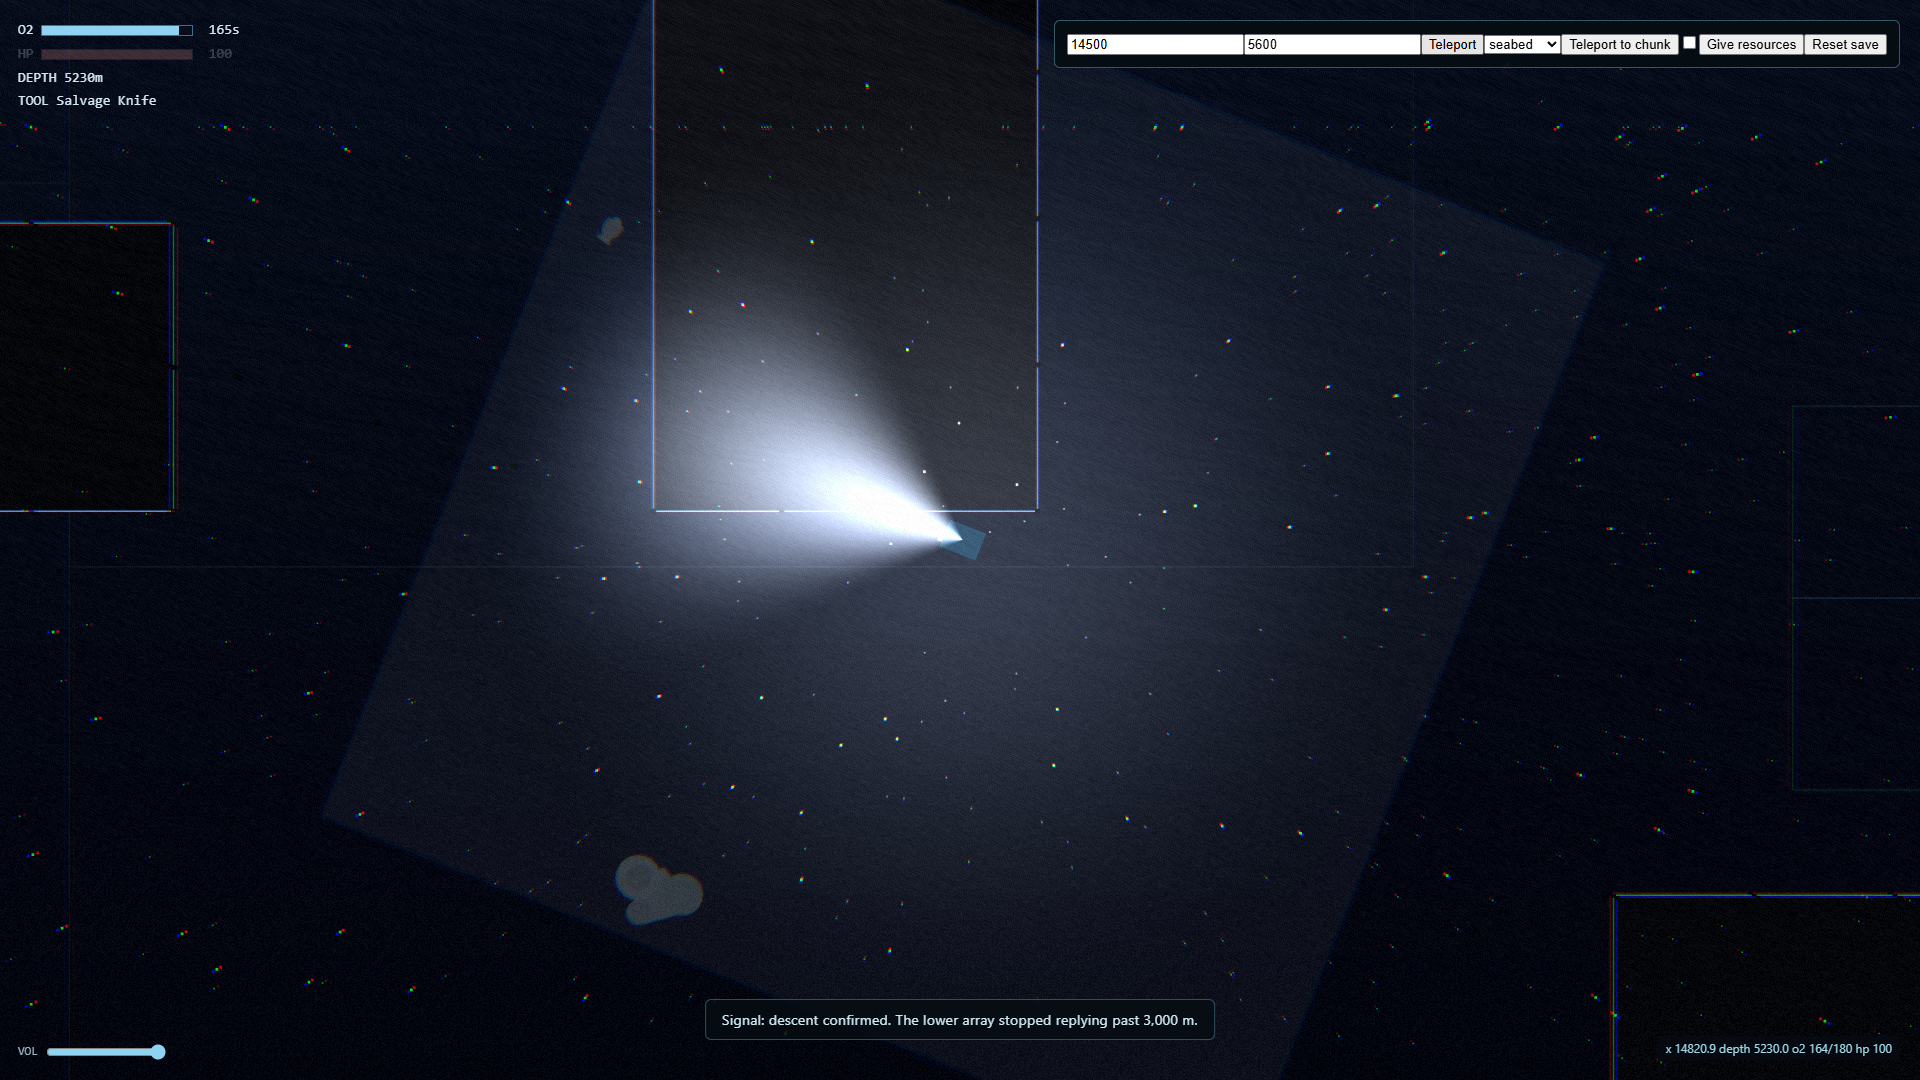
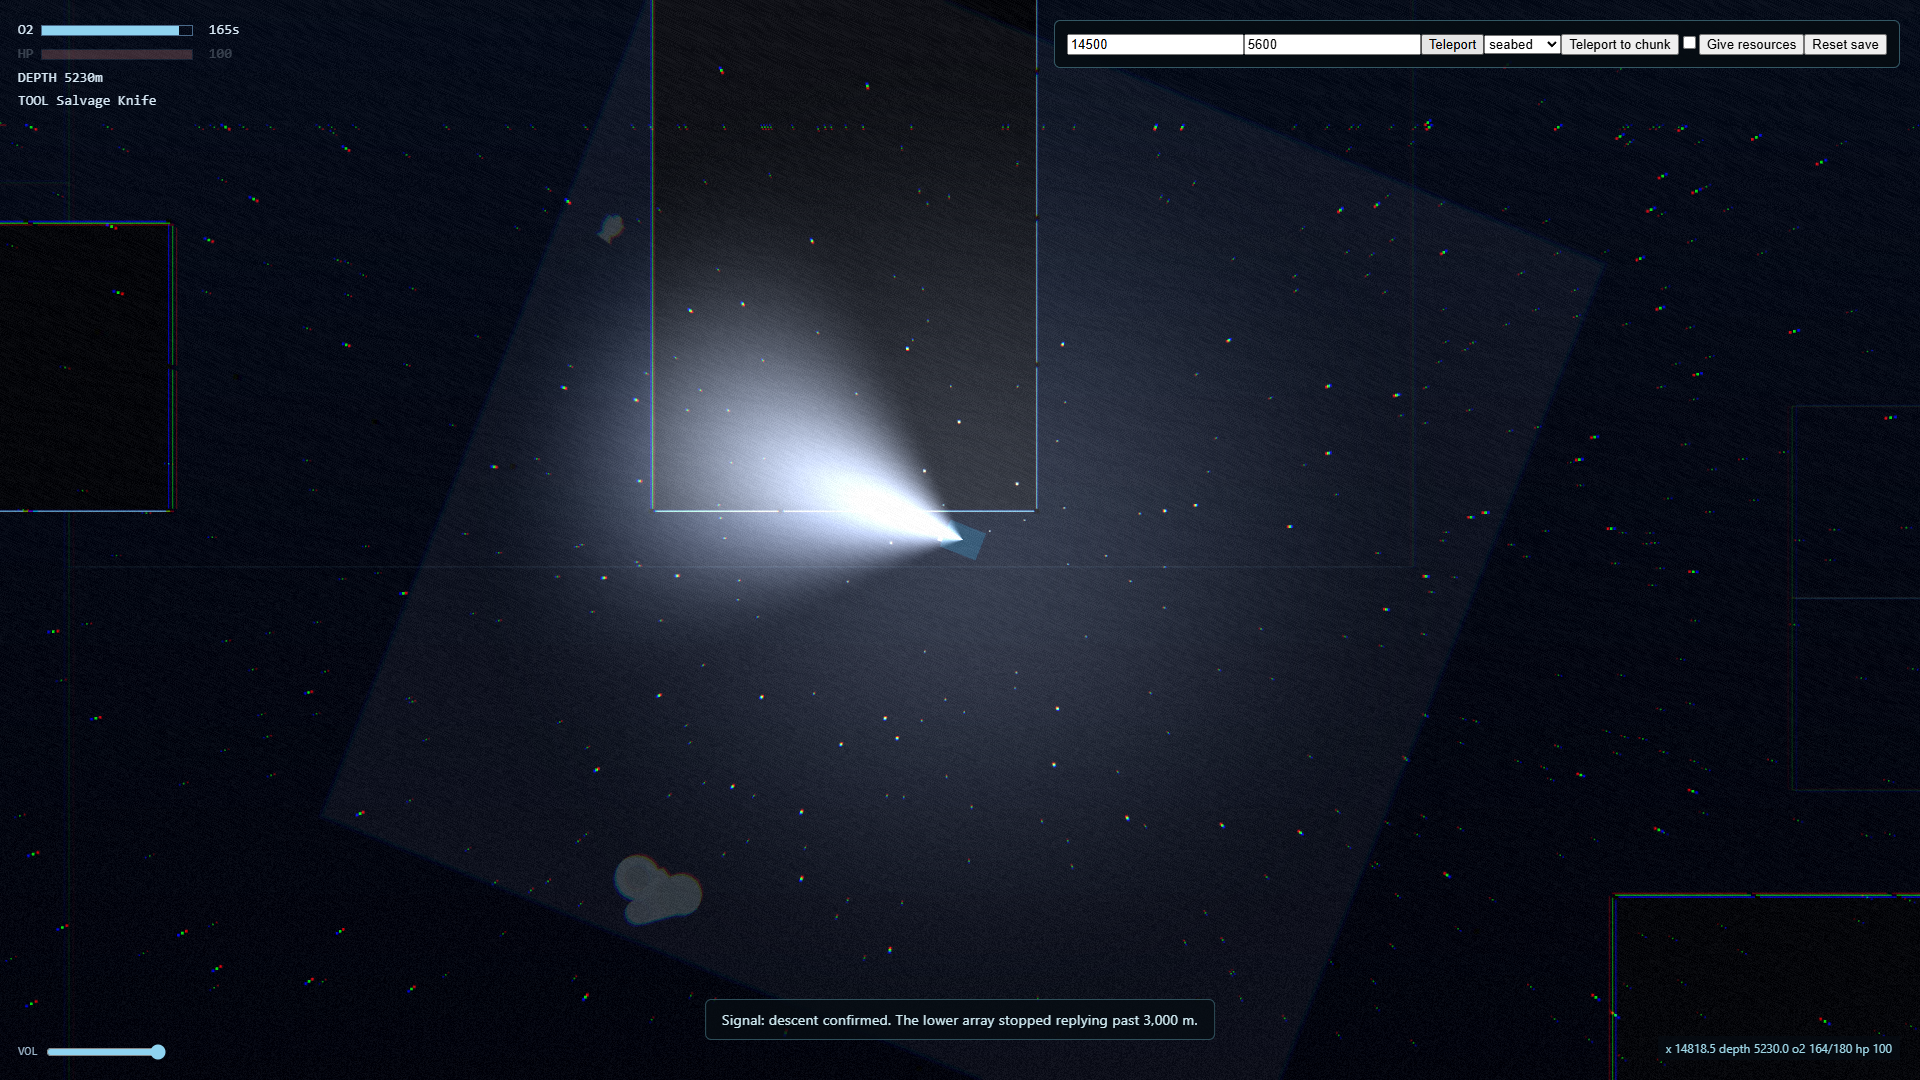
[world][content] cleared a trapped mid-depth drifter spawn and added a spawn-clearance check
Re-land after the work-item review findings: the mid-depth drifter's twilight
instance was spawned inside the twilight landmark slab, where the terrain
resolve would not push it out and its westward drift box-walked the interior
wall. Relocated it to open water above the landmark in the same designed band,
corrected an overstated roster-floor test comment, and added a regression test
that no tier-2 spawn sits inside a closed terrain slab. Full suite 206/206,
build clean, and the tier's browser spot-check of the friendly lifter re-run
green (9/9, no console errors).

Task: hadalv2.execute_leaf.__attempt_0012
Work-Item: WI-03b2
Role: item-implementer

Changed region(s): [[0.0625, 0.2139, 0.0938, 0.4583], [0.8125, 0.8556, 0.8438, 1.0], [0.3125, 0.1833, 0.3438, 0.2444]]

diff --git a/src/sim/tier2Scenario.test.ts b/src/sim/tier2Scenario.test.ts
@@ -115,11 +115,11 @@ describe('tier-2 production world data (WI-03b2)', () => {
   });
 
   it('every hidden roster type is active in the production data (§11.1 roster floor)', () => {
-    // The tier-2 portion of the roster-wide AC-roster-count check WI-03d
-    // finalizes: the world data now spawns every implemented type, so the
-    // 12 implemented creatures are the types "active in the production world
-    // data" — plus the 5 framework fixtures that carry the tier-0 greybox,
-    // which clears the 15+ floor on its own.
+    // The tier-2 portion of the roster-wide AC-roster-count check that WI-03d
+    // finalizes: only the 12 implemented hidden types are asserted active in
+    // the production data here. The 5 framework fixtures are not spawned in
+    // MACRO_WORLD, so they do not count toward the 15+ roster floor — that
+    // floor is WI-03d's to prove, not this item's.
     const active = new Set<string>();
     for (const chunk of makeSimWorld().chunks) {
       for (const spawn of chunk.creatureSpawns ?? []) active.add(spawn.creature);
@@ -128,6 +128,38 @@ describe('tier-2 production world data (WI-03b2)', () => {
       expect(active.has(def.id), `${def.id} has no spawn in the production world data`).toBe(true);
     }
     expect(active.size).toBeGreaterThanOrEqual(12);
+  });
+
+  it('no tier-2 spawn sits inside a closed terrain slab (§49 open-water placement)', () => {
+    // A spawn whose center is strictly inside a solid slab is trapped there:
+    // the terrain resolve only pushes a circle out near an edge, so a body
+    // deep inside a closed slab is never pushed out, drifts to the nearest
+    // interior wall, and box-walks it — never contributing to the band's
+    // dense traversal. Every closed authored slab is an axis-aligned
+    // rectangle, so strict bounding-box containment is exact (a point on an
+    // edge resolves back to open water and is not "trapped").
+    const slabs = makeSimWorld().chunks.flatMap((c) => c.terrain).filter((s) => s.closed);
+    const trappedBy = (p: Vec2): string[] =>
+      slabs
+        .filter((s) => {
+          let minX = Infinity, maxX = -Infinity, minY = Infinity, maxY = -Infinity;
+          for (const pt of s.points) {
+            minX = Math.min(minX, pt.x); maxX = Math.max(maxX, pt.x);
+            minY = Math.min(minY, pt.y); maxY = Math.max(maxY, pt.y);
+          }
+          return p.x > minX && p.x < maxX && p.y > minY && p.y < maxY;
+        })
+        .map((s) => s.id);
+    let checked = 0;
+    for (const chunk of makeSimWorld().chunks) {
+      for (const spawn of chunk.creatureSpawns ?? []) {
+        if (TIER2_CREATURES[spawn.creature] === undefined) continue; // tier-2 only
+        checked += 1;
+        const hits = trappedBy(spawn.position);
+        expect(hits, `tier-2 spawn ${spawn.id} is trapped inside a solid slab: ${hits.join(', ')}`).toEqual([]);
+      }
+    }
+    expect(checked, 'expected the loop to cover the tier-2 spawns').toBeGreaterThanOrEqual(12);
   });
 });
 

diff --git a/agents/tasks/hadalv2.execute_leaf.__attempt_0012/scratch/implementer/clearance/probe.ts b/agents/tasks/hadalv2.execute_leaf.__attempt_0012/scratch/implementer/clearance/probe.ts
@@ -1,0 +1,46 @@
+// Implementer clearance probe (WI-03b2 re-land): for every creature spawn in
+// the production world, is its center strictly inside a closed terrain slab?
+// Uses the REAL world data. All closed slabs are axis-aligned rectangles, so
+// strict bounding-box containment is exact (a point on an edge is "clear").
+import { MACRO_WORLD } from '../../../../../../src/world/worldData';
+import { CREATURE_BY_ID } from '../../../../../../src/creatures/fixtures';
+import type { TerrainShapeDef } from '../../../../../../src/world/terrain';
+
+function insideClosedSlab(p: { x: number; y: number }, s: TerrainShapeDef): boolean {
+  if (!s.closed) return false;
+  let minX = Infinity, maxX = -Infinity, minY = Infinity, maxY = -Infinity;
+  for (const pt of s.points) {
+    minX = Math.min(minX, pt.x); maxX = Math.max(maxX, pt.x);
+    minY = Math.min(minY, pt.y); maxY = Math.max(maxY, pt.y);
+  }
+  return p.x > minX && p.x < maxX && p.y > minY && p.y < maxY;
+}
+
+const insideSlabs = (p: { x: number; y: number }): string[] => {
+  const hit: string[] = [];
+  for (const chunk of MACRO_WORLD) {
+    for (const s of chunk.terrain) if (insideClosedSlab(p, s)) hit.push(s.id);
+  }
+  return hit;
+};
+
+let total = 0;
+let inside = 0;
+for (const chunk of MACRO_WORLD) {
+  for (const spawn of chunk.creatureSpawns ?? []) {
+    total += 1;
+    const r = CREATURE_BY_ID[spawn.creature]?.body.radius ?? 0;
+    const hits = insideSlabs(spawn.position);
+    if (hits.length > 0) {
+      inside += 1;
+      console.log(`INSIDE  ${spawn.id} (${spawn.creature}, r=${r}) at (${spawn.position.x}, ${spawn.position.y}) -> ${hits.join(',')}`);
+    } else {
+      console.log(`clear   ${spawn.id} (${spawn.creature}) at (${spawn.position.x}, ${spawn.position.y})`);
+    }
+  }
+}
+console.log(`\n${total} spawns total; ${inside} strictly inside a closed slab.`);
+
+// Validate the proposed relocation for t31-twilight.
+const candidate = { x: 18200, y: -5300 };
+console.log(`candidate t31-twilight (${candidate.x}, ${candidate.y}): inside -> ${insideSlabs(candidate).join(',') || 'none'}`);

diff --git a/src/world/worldData.ts b/src/world/worldData.ts
@@ -343,7 +343,9 @@ const twilight: WorldChunkDef = {
     { id: 't10-twilight', creature: 'T-10', position: vec2(13900, -6850), count: 2 },
     { id: 't11-twilight', creature: 'T-11', position: vec2(14500, -5900), count: 1 },
     { id: 't27-twilight', creature: 'T-27', position: vec2(13400, -5600), count: 1 },
-    { id: 't31-twilight', creature: 'T-31', position: vec2(17000, -5700), count: 1 },
+    // The drifter's mid stage: placed above the landmark (which caps the band's
+    // upper water) so its westward drift traverses open twilight, not a solid.
+    { id: 't31-twilight', creature: 'T-31', position: vec2(18200, -5300), count: 1 },
   ],
   ambient: { particleDensity: 0.5, light: 0.35 },
 };

diff --git a/agents/tasks/hadalv2.execute_leaf.__attempt_0012/implementation/WI-03b2-implementation.md b/agents/tasks/hadalv2.execute_leaf.__attempt_0012/implementation/WI-03b2-implementation.md
@@ -163,3 +163,86 @@ interaction seams). Wrote: a note on the spawn-clearance gotcha (a rising
 hold-point creature must be placed with the hold offset of vertical headroom
 above its spawn — slabs cap the twilight band and a spawn directly under one
 freezes the rise).
+
+## Revision — re-land after `reviews/WI-03b2-review.md` findings
+
+The work-item review (commit `78c3926`) returned **findings**: the
+`t31-twilight` spawn sat inside the `twilight-landmark` solid and
+box-walked its interior wall (Finding 1, a defect), and a roster-floor test
+comment overstated what the test proved (Finding 2, minor). This revision
+fixes both. No renderer or simulation rule changed.
+
+### Finding 1 — relocate the `t31-twilight` spawn to open water
+
+- **Where it was wrong:** `{ id: 't31-twilight', position: vec2(17000, -5700) }`
+  was strictly inside `slab('twilight-landmark', 15500, -6800, 2200, 1200)`
+  (x ∈ [15500,17700], y ∈ [-6800,-5600]). The T-31 body (radius 12, no chain
+  circles) sits ~100 below the nearest top edge, so `Terrain.resolveCircle`
+  never pushes it out; the depth-tier drift (`driftT31`, westward at
+  `T31_DEEP_DRIFT = 8`) drove it to the interior left wall at x≈15512 where it
+  box-walked — the same failure mode this item already fixed for the T-11
+  lifter, missed for the T-31 drifter.
+- **Fix:** relocated to `vec2(18200, -5300)` — above the landmark (the
+  landmark tops out at y=-5600, so this is open water), in the twilight
+  chunk (band 3), clear of every closed slab in the world. The westward
+  drift now traverses the upper twilight lane over the landmark instead of a
+  solid. Band coverage is unchanged (still band 3), so the band-coverage test
+  is unaffected.
+- **Regression guard (test-first):** added
+  `no tier-2 spawn sits inside a closed terrain slab (§49 open-water
+  placement)` to the `tier-2 production world data (WI-03b2)` block. It
+  checks every tier-2 spawn center against every closed authored slab using
+  exact axis-aligned bounding-box containment. Confirmed **failing** on the
+  old position (`expected ['twilight-landmark'] to deeply equal []`) before
+  the fix, passing after.
+
+### Finding 2 — correct the roster-floor comment
+
+The third test's comment claimed the 5 framework fixtures "carry the tier-0
+greybox, which clears the 15+ floor on its own." That overstates the test:
+`active` is built only from production `creatureSpawns` (the 12 implemented
+hidden types), and the fixtures are not spawned in `MACRO_WORLD`. Rewrote the
+comment to state that only the 12 implemented types are asserted here and the
+15+ floor is WI-03d's to prove.
+
+### Shrink / Flatten (this revision)
+
+No new abstraction, class, or module: the fix is one spawn position + one
+inline hidden-constraint comment (the terrain resolve will not push a body
+out of a deep-inside slab — a constraint not visible from the code), one
+comment correction, and one local test helper (`trappedBy`, not a new file).
+Nothing removable remained.
+
+### Evidence (re-run this revision)
+
+| Check | Command | Result |
+|---|---|---|
+| New clearance test red→green | `npx vitest run src/sim/tier2Scenario.test.ts` | red on old position; 16/16 pass after |
+| Full suite | `npx vitest run` | 27 files / **206/206** pass (was 205; +1 test) |
+| Type-check + bundle | `npm run build` | exit 0 (only the informational >500 kB three.js chunk notice) |
+| Clearance enumeration | `scratch/implementer/clearance/probe.ts` (`npx tsx`) | `t31-twilight` now clear; only out-of-scope `t03-twilight` flagged |
+| Browser spot-check (re-run, T-11) | `scratch/implementer/tier2-spot-check/probe.mjs` | 9/9 pass; no page exceptions, no console errors with the new world data |
+
+### Out-of-scope discovery (recorded, not fixed)
+
+The clearance probe surfaced a **tier-1** cross-chunk overlap: `t03-twilight`
+(T-03, the loose congregation, radius 10) at (11000, -5000) is strictly
+inside the shelf chunk's `shelf-floor-east` slab (x ∈ [10000,14000],
+y ∈ [-5200,-4900]). It is the same trapped-in-a-solid class of defect, but it
+is a tier-1 creature placed by the tier-1/tier-2 greybox work, not this
+tier-2 item, and it was not flagged by the review. Fixing it is outside this
+work item's seams (a world-data placement for another tier's creature) —
+routed to the existing fix-planning path. Recorded so it is not silently
+missed; the tier-2 clearance test is scoped to tier-2 ids and does not
+mask it.
+
+### Files touched (this revision)
+
+- `src/world/worldData.ts` — `t31-twilight` position `(17000,-5700)` →
+  `(18200,-5300)` + one inline clearance comment.
+- `src/sim/tier2Scenario.test.ts` — new tier-2 spawn-clearance regression
+  test + corrected roster-floor comment (Finding 2).
+- `agents/tasks/hadalv2.execute_leaf.__attempt_0012/scratch/implementer/clearance/`
+  (new probe + its AGENTS.md) and the re-run tier2-spot-check `out/`
+  (fresh `result.json` + screenshots).
+- This artifact (append-only revision).

diff --git a/agents/projects/hadal/notes/20260912-implementer-wi03b2-spawn-clearance-reland.md b/agents/projects/hadal/notes/20260912-implementer-wi03b2-spawn-clearance-reland.md
@@ -1,0 +1,43 @@
+---
+tags: [world-data, spawns, terrain, gotcha, cross-chunk]
+symbols: [MACRO_WORLD, WorldChunkDef, slab, Terrain.resolveCircle, buildTerrain, TIER2_BANDS]
+---
+
+# World spawn clearance: exact "inside a solid" check + cross-chunk slab overlap
+
+## Fact 1 — how to test "is a spawn inside a solid" (not resolveCircle)
+
+`Terrain.resolveCircle` (src/world/terrain.ts) pushes a circle out **only when
+it is within its radius of a segment**. A body deep inside a closed slab
+returns the same point (moved=false), so `resolveCircle` **cannot**
+distinguish "open water" from "trapped inside a slab." A clearance test must
+do a direct geometric containment check.
+
+Every closed authored slab (see `slab(id, x, y, w, h)` in
+src/world/worldData.ts) is an **axis-aligned rectangle**, so strict
+bounding-box containment is exact: a spawn is trapped iff
+`x0 < px < x1 && y0 < py < y1` (strict, so a point on an edge resolves back
+to open water and is not trapped). This is what the tier-2 regression test in
+`src/sim/tier2Scenario.test.ts` (`no tier-2 spawn sits inside a closed
+terrain slab`) uses.
+
+## Fact 2 — world chunks spatially overlap across band boundaries
+
+Chunk terrain is authored per-chunk but the rectangles can overlap
+neighbouring bands' play space. Concrete: the shelf chunk's
+`shelf-floor-east` slab (x 10000–14000, y -5200 to -4900) sits at the very top
+of the twilight band (twilight bounds y -8000 to -4800). A twilight spawn in
+that band is actually inside the shelf slab — e.g. `t03-twilight` (T-03) at
+(11000, -5000) is strictly inside `shelf-floor-east` and is a trapped
+tier-1 instance. This was found during the WI-03b2 re-land; it is out of that
+item's tier-2 scope (routed to the fix-planning path, not fixed there).
+
+Consequence: a "spawn in open water" check must test against **all** closed
+slabs in the world, not just the spawn's own chunk.
+
+## Symptom (a trapped spawn)
+
+The creature drifts/steers toward the nearest interior wall and box-walks it
+with zero effective escape (see the companion note on the T-11 rise stall).
+A trapped spawn is also never encountered by the player and never contributes
+to the band's §49 dense traversal.

diff --git a/agents/tasks/hadalv2.execute_leaf.__attempt_0012/scratch/implementer/clearance/AGENTS.md b/agents/tasks/hadalv2.execute_leaf.__attempt_0012/scratch/implementer/clearance/AGENTS.md
@@ -1,0 +1,21 @@
+# Tier-2 spawn-clearance probe (WI-03b2 re-land)
+
+Bounded headless probe that checks, for every creature spawn in the
+production world, whether its center is strictly inside a closed terrain
+slab (a solid the terrain resolve will not push it out of). It uses the
+**real** `MACRO_WORLD` data; every closed authored slab is an axis-aligned
+rectangle, so strict bounding-box containment is exact.
+
+- `probe.ts` — enumerates all `MACRO_WORLD` creature spawns against every
+  closed slab. Before the fix it reported `t31-twilight` (17000,-5700)
+  inside `twilight-landmark` (the reviewer's Finding 1); after relocating the
+  spawn to (18200,-5300) it reports that spawn clear. It also surfaced an
+  out-of-scope tier-1 cross-chunk overlap — `t03-twilight` (11000,-5000)
+  inside the shelf chunk's `shelf-floor-east` slab — recorded as a finding,
+  not fixed here.
+
+Run from the repo root:
+
+```powershell
+npx tsx agents/tasks/hadalv2.execute_leaf.__attempt_0012/scratch/implementer/clearance/probe.ts
+```

diff --git a/agents/projects/hadal/notes/AGENTS.md b/agents/projects/hadal/notes/AGENTS.md
@@ -25,3 +25,4 @@ YYYYMMDD-<role>-<topic>.md
 <!-- include: ./20260907-understander-wi07-baseline-remaining-scope.md -->
 <!-- include: ./20260908-implementer-wi02a-creature-runtime-seams.md -->
 <!-- include: ./20260908-implementer-wi02b-creature-render-seams.md -->
+<!-- include: ./20260912-implementer-wi03b2-spawn-clearance-reland.md -->
